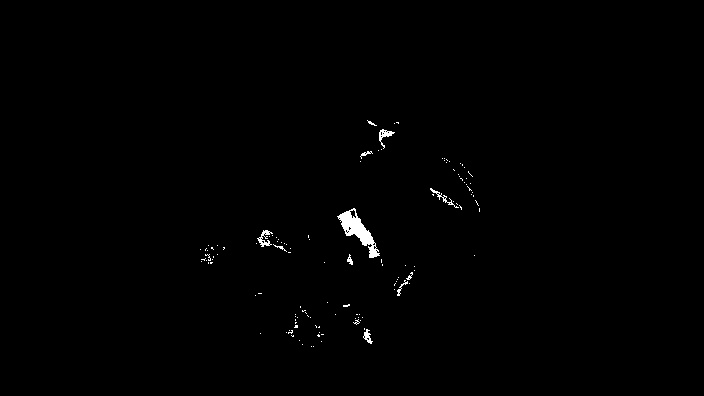
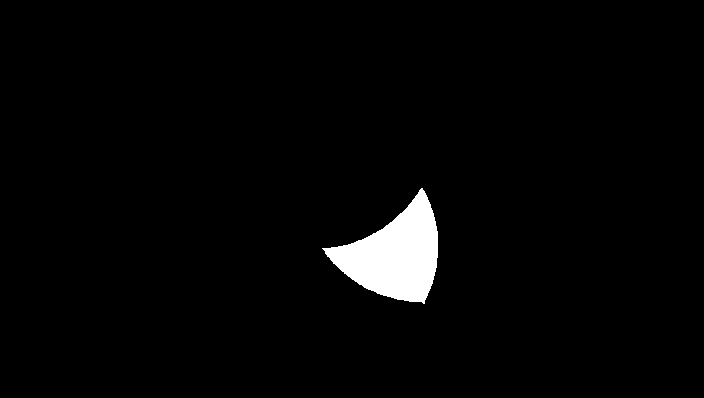
update HSV parameter

diff --git a/processing.py b/processing.py
@@ -9,14 +9,14 @@ def detect_yellow(img: bytes) -> bytes:
     # img = cv2.imread('image.png')
 
     # convert to hsv colorspace
-    # hsv = cv2.cvtColor(img, cv2.COLOR_BGR2HSV)
+    hsv = cv2.cvtColor(cv2_img, cv2.COLOR_BGR2HSV)
 
     # lower bound and upper bound for Green color
-    lower_bound = np.array([0, 0, 160])   
-    upper_bound = np.array([100, 255, 255])
+    lower_bound = np.array([22, 100, 100])   
+    upper_bound = np.array([38, 255, 255])
 
     # find the colors within the boundaries
-    mask = cv2.inRange(cv2_img, lower_bound, upper_bound)
+    mask = cv2.inRange(hsv, lower_bound, upper_bound)
     cv2.imwrite('yellow.jpg', mask)
     
     image_bytes = cv2.imencode('.jpg', mask)
